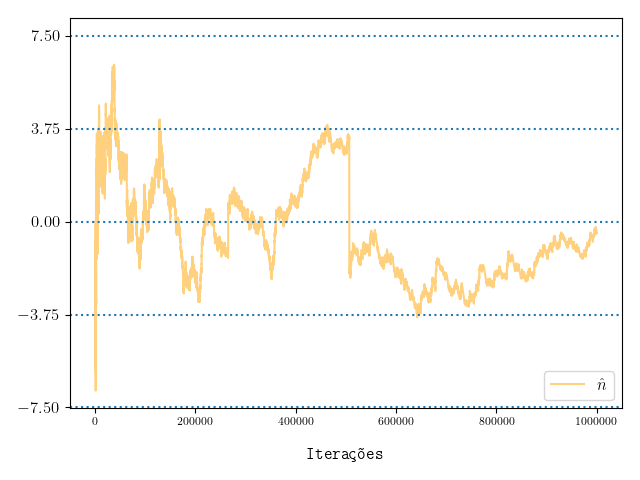
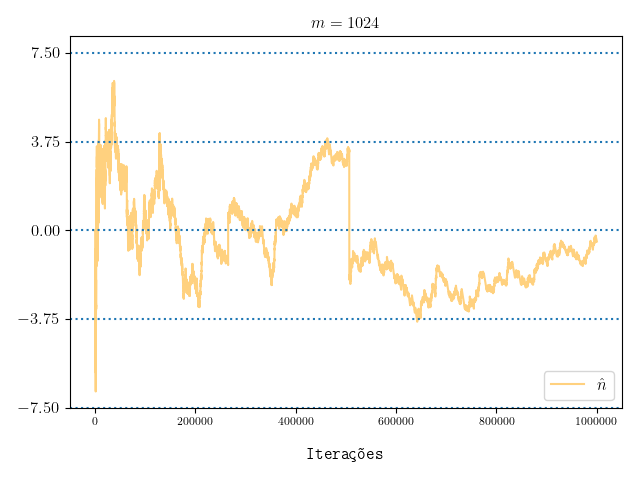
Ajusta gráficos das Amostragens Adaptativas

diff --git a/estruturas/adaptive_sampling/run_adaptive_sampling_simulation_01.py b/estruturas/adaptive_sampling/run_adaptive_sampling_simulation_01.py
@@ -20,7 +20,14 @@ matplotlib.rc("font", **font)
 TAMANHO_DO_CONJUNTO = 1000000
 
 
-def constroi_grafico(tamanhos: List[int], respostas: List[int], m: int, inicio: int = 0, fim: int = -1):
+def constroi_grafico(
+    tamanhos: List[int],
+    respostas: List[int],
+    m: int,
+    inicio: int = 0,
+    fim: int = -1,
+    mostra_x_label=True,
+):
     _, ax = plt.subplots()
     ax.plot(
         tamanhos[inicio:fim],
@@ -36,9 +43,12 @@ def constroi_grafico(tamanhos: List[int], respostas: List[int], m: int, inicio: 
         alpha=0.5,
     )
 
+    if mostra_x_label:
+        ax.set_ylabel("Quantidade de elementos distintos", labelpad=15)
+
     ax.set_xlabel("Iterações", labelpad=15)
-    ax.set_ylabel("Quantidade de elementos distintos", labelpad=15)
     ax.legend()
+    ax.set_title(rf"$m = {m}$", fontsize=12)
     ax.tick_params(axis="x", labelsize=8)
     plt.ticklabel_format(style="plain")
     plt.tight_layout()
@@ -52,6 +62,7 @@ def constroi_grafico_erro(
     inicio: int = 0,
     fim: int = -1,
     erro_esperado: float = 0,
+    mostra_x_label=True,
 ):
     erros: List[int] = []
 
@@ -99,16 +110,23 @@ def constroi_grafico_erro(
         ax.set_yticks([-2 * erro_esperado, -erro_esperado, 0.0, erro_esperado, 2 * erro_esperado])
         ax.tick_params(axis="y")
 
+    if mostra_x_label:
+        ax.set_ylabel("Erro Relativo", labelpad=15)
+
     ax.set_xlabel("Iterações", labelpad=15)
-    ax.set_ylabel("Erro Relativo", labelpad=15)
     ax.legend()
+    ax.set_title(rf"$m = {m}$", fontsize=12)
     ax.tick_params(axis="x", labelsize=8)
     plt.ticklabel_format(style="plain")
     plt.tight_layout()
     plt.show()
 
 
-def experimento(M: int, erro_esperado: float = 0):
+def experimento(
+    M: int,
+    erro_esperado: float = 0,
+    mostra_x_label=True,
+):
     random.seed(0)
     adaptive_sampling = AdaptiveSampling(m=M)
 
@@ -133,9 +151,16 @@ def experimento(M: int, erro_esperado: float = 0):
     constroi_grafico(tamanhos, respostas, M)
     constroi_grafico_erro(tamanhos, respostas, M, erro_esperado=erro_esperado)
     constroi_grafico(tamanhos, respostas, M, fim=M * 4)
-    constroi_grafico_erro(tamanhos, respostas, M, fim=M * 4, erro_esperado=erro_esperado)
+    constroi_grafico_erro(
+        tamanhos,
+        respostas,
+        M,
+        fim=M * 4,
+        erro_esperado=erro_esperado,
+        mostra_x_label=mostra_x_label,
+    )
 
 
 if __name__ == "__main__":
     experimento(64, 15)
-    experimento(1024, 3.75)
+    experimento(1024, 3.75, False)

diff --git a/monografia/conteudo/04-adaptive-sampling.tex b/monografia/conteudo/04-adaptive-sampling.tex
@@ -113,7 +113,7 @@ Outro fator importante de se destacar é que o estimador devolvido por $\AS$ é
 $\asampling$ poder estimar valores pequenos sem problemas.
 
 \newpage
-\section{Um, dois, três, \dots, repetido, \dots}
+\section{Implementando $\asampling$}
 
 Nesta seção apresentaremos a implementação do algoritmo das \proc{Amostragens} \proc{Adaptativas} e experimentos.
 
@@ -236,24 +236,21 @@ desvios padrões.
 \end{figure}
 
 Para o segundo experimento, repetimos as simulações anteriores dez mil vezes. No final do processo, construímos 
-histogramas a partir das frequências das estimativas devolvidas. A Figura~\ref{fig:as:experimento:02:64} tem a 
-distribuição das estimativas da estrutura~\texttt{AdaptiveSampling} com $m = 64$ e a 
-Figura~\ref{fig:as:experimento:02:1024}, com $m = 1024$. Nos dois casos, quase todos as estimativas ficaram dentro de
-dois desvios padrões, e houve uma grande concentração de estimativas entre um desvio padrão. E podemos notar que com um
-valor de $m$ maior, a variância do algoritmo das $\asampling$ diminuiu.
+histogramas a partir das frequências das estimativas devolvidas. A Figura~\ref{fig:as:experimento:02} tem as 
+distribuições das estimativas da estrutura~\texttt{AdaptiveSampling} com $m = 64$ e $m = 1024$. Nos dois casos, quase 
+todos as estimativas ficaram dentro de dois desvios padrões, e houve uma grande concentração de estimativas entre um 
+desvio padrão. E podemos notar que com um valor de $m$ maior, a variância do algoritmo das $\asampling$ diminuiu.
 
 \begin{figure}
   \centering
   \begin{subfigure}{.5\textwidth}
     \centering
     \includegraphics[width=\linewidth, height=4cm]{figuras/adaptive_sampling_variance_64.png}
-    \caption{$m = 64$}
     \label{fig:as:experimento:02:64}
   \end{subfigure}%
   \begin{subfigure}{.5\textwidth}
     \centering
     \includegraphics[width=\linewidth, height=4cm]{figuras/adaptive_sampling_variance_1024.png}
-    \caption{$m = 1024$}
     \label{fig:as:experimento:02:1024}
   \end{subfigure}
   \caption{Segundo experimento do algoritmo $\AS$. Foram realizadas dez mil simulações e em cada simulação, foram 

diff --git a/estruturas/adaptive_sampling/plot_adaptive_sampling_simulation_02.py b/estruturas/adaptive_sampling/plot_adaptive_sampling_simulation_02.py
@@ -76,6 +76,7 @@ if __name__ == "__main__":
     ax.set_xlabel("Estimativas", labelpad=15)
     ax.set_ylabel("Frequência", labelpad=15)
     ax.set_xticks([estimates[0], *config["xticks"], estimates[-1]])
+    ax.set_title(rf"$m = {M}$", fontsize=12)
     ax.tick_params(axis="x", labelsize=8)
     plt.ticklabel_format(style="plain")
     plt.tight_layout()
